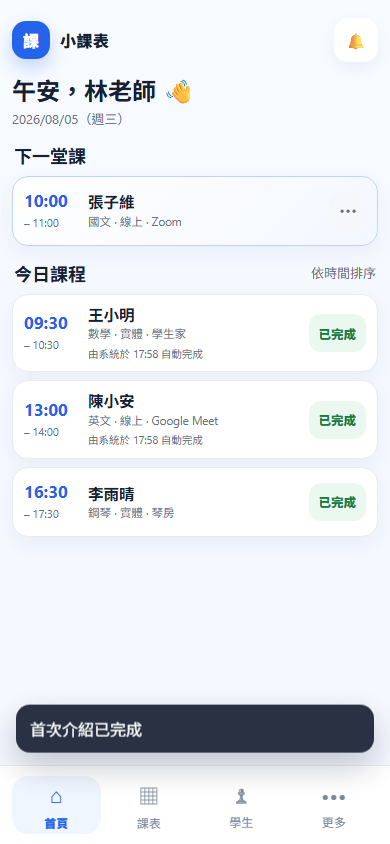
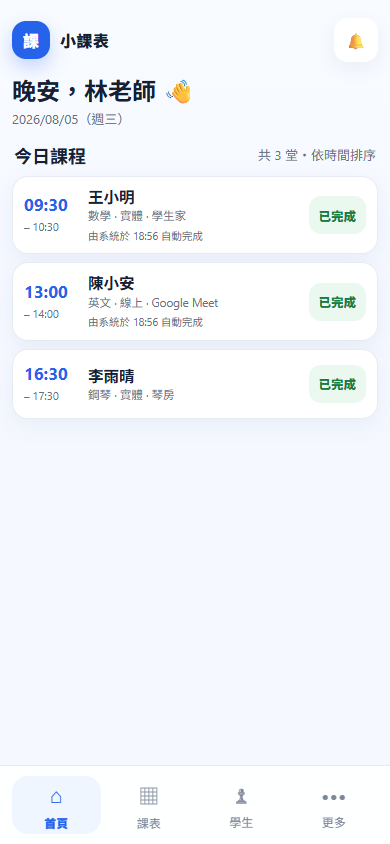
feat(home): unify daily lessons and add notification test

diff --git a/index.html b/index.html
@@ -1484,7 +1484,7 @@ textarea { min-height: 96px; resize: vertical; }
     return `
       <header class="topbar">
         <div class="brand"><div class="brand-mark">課</div><span>小課表</span></div>
-        <button class="icon-btn" aria-label="通知（示範）" data-action="notify">🔔</button>
+        <button class="icon-btn" aria-label="測試通知" title="測試通知" data-action="notify">🔔</button>
       </header>`;
   }
 
@@ -1554,29 +1554,15 @@ textarea { min-height: 96px; resize: vertical; }
     return `${subjects.slice(0, 2).join("・")}＋${subjects.length - 2}`;
   }
 
-  function nextUpcomingLesson() {
-    const now = new Date();
-    return activeLessons().filter(lesson => {
-      if (!["scheduled", "inProgress"].includes(lesson.status)) return false;
-      if (lesson.status === "inProgress") return true;
-      return new Date(`${lesson.date}T${lesson.startTime}:00`).getTime() >= now.getTime();
-    }).sort((a, b) => `${a.date}${a.startTime}`.localeCompare(`${b.date}${b.startTime}`))[0] || null;
-  }
-
   function renderHome() {
     const today = todayISO();
     const lessons = activeLessons().filter(l => l.date === today).sort((a, b) => a.startTime.localeCompare(b.startTime));
-    const nextLesson = nextUpcomingLesson();
     return `
       ${topbar()}
       <section class="hero"><h1>${greeting()}，${escapeHtml(state.teacherProfile?.name || "林老師")} 👋</h1><p>${formatDate(today)}</p></section>
       ${renderTodayCreditReminder(lessons)}
       <section class="section">
-        <div class="section-heading"><h2>下一堂課</h2></div>
-        <div class="card-list">${nextLesson ? lessonCard(nextLesson, { next: true }) : emptyState("目前沒有待上課程", "到課表安排下一堂課。", "前往課表", "go-schedule")}</div>
-      </section>
-      <section class="section">
-        <div class="section-heading"><h2>今日課程</h2><span class="subtle">依時間排序</span></div>
+        <div class="section-heading"><h2>今日課程</h2><span class="subtle">共 ${lessons.length} 堂・依時間排序</span></div>
         <div class="card-list">${lessons.length ? lessons.map(l => lessonCard(l)).join("") : emptyState("今天沒有安排課程", "可到課表查看其他日期或新增課程。", "前往課表", "go-schedule")}</div>
       </section>
       ${bottomNav()}`;
@@ -3117,6 +3103,25 @@ textarea { min-height: 96px; resize: vertical; }
     }
   }
 
+  function testNotificationMessage() {
+    const lessonCount = activeLessons().filter(lesson => lesson.date === todayISO()).length;
+    return `通知測試成功！今天共有 ${lessonCount} 堂課，可在首頁查看。`;
+  }
+
+  function showTestNotification() {
+    const title = "小課表測試通知";
+    const body = testNotificationMessage();
+    if (window.AndroidUpdater?.showCreditReminder) {
+      window.AndroidUpdater.showCreditReminder(title, body);
+      return true;
+    }
+    if ("Notification" in window && Notification.permission === "granted") {
+      new Notification(title, { body, icon: "./icons/icon-192.png", tag: `test-${Date.now()}` });
+      return true;
+    }
+    return false;
+  }
+
   function processAutoCompletions(options = {}) {
     try {
       const result = Domain.autoCompleteOverdueLessons(state, { idFactory: uid, now: options.now || new Date().toISOString() });
@@ -3134,15 +3139,14 @@ textarea { min-height: 96px; resize: vertical; }
   }
 
   async function requestNotificationPermission() {
-    if (window.AndroidUpdater?.requestNotificationPermission) {
-      window.AndroidUpdater.requestNotificationPermission();
-      sendDailyCreditReminderIfNeeded();
-      toast("已開啟每日一次的堂數提醒");
+    if (window.AndroidUpdater?.showCreditReminder) {
+      showTestNotification();
+      toast("已要求送出測試通知；若出現權限視窗，請點允許");
       return;
     }
     if (!("Notification" in window)) { toast("此瀏覽器不支援系統通知；首頁仍會顯示提醒", "error"); return; }
     const permission = await Notification.requestPermission();
-    if (permission === "granted") { sendDailyCreditReminderIfNeeded(); toast("已開啟每日一次的堂數提醒"); }
+    if (permission === "granted") { showTestNotification(); toast("測試通知已送出；每日堂數提醒也已開啟"); }
     else toast("尚未允許系統通知；首頁仍會顯示提醒");
   }
 

diff --git a/docs/V0.8_ACCEPTANCE.md b/docs/V0.8_ACCEPTANCE.md
@@ -8,14 +8,14 @@
 
 ## v0.8 A～I
 
-- A 首頁：只保留重要提醒、下一堂課、今日課程；沒有首頁新增課程按鈕。
+- A 首頁：只保留重要提醒與單一今日課程清單；當天所有課依時間排序，沒有重複的下一堂課區塊，也沒有首頁新增課程按鈕。
 - B 課表：完整週一至週日週視圖；42 格月視圖顯示每日有效堂數，取消及已改期原紀錄不計入。
 - C 時長：支援 30、45、60、90、120、180 分鐘及 15～360 分鐘自訂值；可自動計算或手動覆寫結束時間，禁止跨越午夜。
 - D 課後流程：依 v0.8.1 改為到時自動完成；老師仍可事後更正結果與扣堂方式。
 - E 學生科目：支援多科目、預設科目、精簡摘要及任一科目搜尋；舊 `subject` 安全遷移。
 - F 改期：支援只改這堂、這堂與之後、整個系列；保留 `rescheduleHistory`，已扣堂時自動還原。
 - G 導覽：五步跨頁情境導覽，具進度、上一步、略過、穩定 `data-tour-id` 與可恢復步驟。
-- H 提醒：首頁最後一堂／零堂數提醒；Android 系統通知每天最多一次，未授權時不影響首頁。
+- H 提醒：首頁最後一堂／零堂數提醒；Android 系統通知每天最多一次，未授權時不影響首頁；右上角鈴鐺可立即發送含今日課程數的測試通知。
 - I 相容性：保留 `xiaokebiao_mvp_v1`、GitHub Pages、PWA 與永久 Android applicationId `io.github.lobster0213.xiaokebiao`。
 
 ## v0.8.1 自動完成重點
